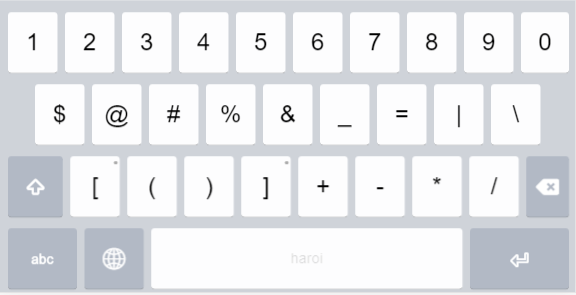
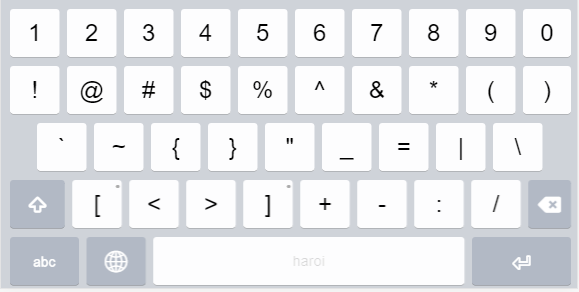
update help and numeric layout image

diff --git a/release/h/haroi/source/help/haroi.php b/release/h/haroi/source/help/haroi.php
@@ -1,0 +1,131 @@
+<?php 
+  $pagename = 'Haroi Keyboard Help';
+  $pagetitle = 'Haroi Keyboard Help';
+  // Header we will tidy up later  
+  require_once('header.php');
+
+
+?>
+
+
+<p style='margin: 16px 0 0 0'>
+Haroi Keyboard 1.0 is adapted from VNI.
+</p>
+<p>If square boxes are displayed instead of characters when using this keyboard (and in the keyboard layouts below), please read our <a href="/troubleshooting/#boxes">troubleshooting guide</a>.
+</p>
+<br/>
+
+<h1>Desktop Keyboard Layout</h1>
+<div id='osk' data-states='default shift'>
+</div>
+
+<h1>Mobile/Tablet Keyboard Layout</h1>
+<div id='osk-tablet' data-states='default shift numeric'>
+</div>
+
+<h1>Letters with Tone Marks and Diacritics</h1>
+
+<h2>Tone Marks</h2>
+
+<p>Press any vowel key and then any numeral 1-5 to get the vowel with a tone mark. </p>
+<p>For example:</p>
+<ul style="font-family:'Charist SIL';">
+<li>a + 1 = á </li> 
+<li>a + 2 = à </li>
+<li>a + 3 = ả </li>
+<li>a + 4 = ã </li>
+<li>a + 5 = ạ </li>
+</ul>
+<table width="300px" style="text-align:center; border:1px solid; font-family:'Charist SIL';">
+<thead  style="font-weight: bold; background-color: grey;"><tr><th></th><th>1</th><th>2</th><th>3</th><th>4</th><th>5</th></tr></thead><tbody>
+ <tr><td style="font-weight: bold; background-color: grey;">a</td><td>á</td><td>à</td><td>ả</td><td>ã</td><td>ạ</td></tr>
+ <tr><td style="font-weight: bold; background-color: grey;">e</td><td>é</td><td>è</td><td>ẻ</td><td>ẽ</td><td>ẹ</td></tr>
+ <tr><td style="font-weight: bold; background-color: grey;">i</td><td>í</td><td>ì</td><td>ỉ</td><td>ĩ</td><td>ị</td></tr>
+ <tr><td style="font-weight: bold; background-color: grey;">o</td><td>ó</td><td>ò</td><td>ỏ</td><td>õ</td><td>ọ</td></tr>
+ <tr><td style="font-weight: bold; background-color: grey;">u</td><td>ú</td><td>ù</td><td>ủ</td><td>ũ</td><td>ụ</td></tr>
+ <tr><td style="font-weight: bold; background-color: grey;">y</td><td>ý</td><td>ỳ</td><td>ỷ</td><td>ỹ</td><td>ỵ</td></tr>
+  
+</tbody></table>
+
+<h2>Vowel Qualities</h2>
+<p>Press any vowel key and then any numeral 6-8 to get the vowel with different vowel qualities. Some combinations are not possible.</p>
+<p>For example:</p>
+<ul style="font-family:'Charist SIL';">
+<li>a + 6 = â, e + 6 = ê, i + 6 = î, o + 6 = ô, u + 6 = û </li> 
+<li>o + 7 = ơ, u + 7 = ư </li>
+<li>a + 8 = ă, e + 8 = ĕ, i + 8 = ĭ, o + 8 = ŏ, u + 8 = ŭ (vowel shortening)</li>
+</ul>
+<table width="300px" style="text-align:center; border:1px solid; font-family:'Charist SIL';">
+<thead style="font-weight: bold; background-color: grey;"><tr><th></th><th>6</th><th>7</th><th>8</th></tr></thead><tbody>
+ <tr><td style="font-weight: bold; background-color: grey;">a</td><td>â</td><td>a7</td><td>ă</td></tr>
+ <tr><td style="font-weight: bold; background-color: grey;">e</td><td>ê</td><td>e7</td><td>ĕ</td></tr>
+ <tr><td style="font-weight: bold; background-color: grey;">i</td><td>î</td><td>i7</td><td>ĭ</td></tr>
+ <tr><td style="font-weight: bold; background-color: grey;">o</td><td>ô</td><td>ơ</td><td>ŏ</td></tr>
+ <tr><td style="font-weight: bold; background-color: grey;">u</td><td>û</td><td>ư</td><td>ŭ</td></tr>
+</tbody></table>
+
+<h2>Vowel Quality and Tone Marks</h2>
+<p>To get a vowel with both vowel quality and tone mark, press the vowel then the number for vowel quality (i.e. 6, 7 or 8) then the number for tone mark (i.e. 1, 2, ,3 ,4 or 5). Some combinations are not possible (i.e. i61 > î1).</p>
+<p>For example:</p>
+<ul style="font-family:'Charist SIL';">
+<li>a + 6 + 1 = ấ, a + 6 + 2 = ầ, a + 6 + 3= ẩ, a + 6 + 4= ẫ, a + 6 + 5 = ậ </li> 
+<li>e + 6 + 1 = ế, e + 6 + 2 = ề, e + 6 + 3= ể, e + 6 + 4= ễ, e + 6 + 5 = ệ </li> 
+<li>i + 6 + 1 = î1, i + 6 + 2 = î̀, i + 6 + 3= î3, i + 6 + 4= î4, i + 6 + 5 = î5 </li> 
+<li>o + 6 + 1 = ố, o + 6 + 2 = ồ, o + 6 + 3= ổ, o + 6 + 4= ỗ, o + 6 + 5 = ộ </li> 
+<li>u + 6 + 1 = û1, u + 6 + 2 = û̀, u + 6 + 3= û3, u + 6 + 4= û4, u + 6 + 5 = û5 </li> 
+<li>...etc, see the table below</li>
+</ul>
+<table width="300px" style="text-align:center; border:1px solid; font-family:'Charist SIL';">
+<thead style="font-weight: bold; background-color: grey;"><tr style="text-align:center;"><th></th><th>1</th><th>2</th><th>3</th><th>4</th><th>5</th></tr></thead><tbody>
+ <tr><td style="font-weight: bold; background-color: grey;">a6</td><td>ấ</td><td>ầ</td><td>ẩ</td><td>ẫ</td><td>ậ</td></tr>
+ <tr><td style="font-weight: bold; background-color: grey;">e6</td><td>ế</td><td>ề</td><td>ể</td><td>ễ</td><td>ệ</td></tr>
+ <tr><td style="font-weight: bold; background-color: grey;">i6</td><td>î1</td><td>î̀</td><td>î3</td><td>î4</td><td>î5</td></tr>
+ <tr><td style="font-weight: bold; background-color: grey;">o6</td><td>ố</td><td>ồ</td><td>ổ</td><td>ỗ</td><td>ộ</td></tr>
+ <tr><td style="font-weight: bold; background-color: grey;">u6</td><td>û1</td><td>û̀</td><td>û3</td><td>û4</td><td>û5</td></tr>
+ <tr><td style="font-weight: bold; background-color: grey;">o7</td><td>ớ</td><td>ờ</td><td>ở</td><td>ỡ</td><td>ợ</td></tr>
+ <tr><td style="font-weight: bold; background-color: grey;">u7</td><td>ứ</td><td>ừ</td><td>ử</td><td>ữ</td><td>ự</td></tr>
+ <tr><td style="font-weight: bold; background-color: grey;">a8</td><td>ắ</td><td>ằ</td><td>ẳ</td><td>ẵ</td><td>ặ</td></tr>
+ <tr><td style="font-weight: bold; background-color: grey;">e8</td><td>ĕ1</td><td>ĕ2</td><td>ĕ3</td><td>ĕ4</td><td>ĕ5</td></tr>
+ <tr><td style="font-weight: bold; background-color: grey;">i8</td><td>ĭ́</td><td>ĭ̀</td><td>ĭ̉</td><td>ĭ̃</td><td>ị̆</td></tr>
+ <tr><td style="font-weight: bold; background-color: grey;">o8</td><td>ŏ́</td><td>ŏ̀</td><td>ŏ̉</td><td>ŏ̃</td><td>ọ̆</td></tr>
+ <tr><td style="font-weight: bold; background-color: grey;">u8</td><td>ŭ́</td><td>ŭ̀</td><td>ŭ̉</td><td>ŭ̃</td><td>ụ̆</td></tr>
+</tbody></table>
+
+<h2>Other Characters</h2>
+<ul style="font-family:'Charist SIL';">
+<li>d + 9 = đ </li> 
+<li>b + 9 = ƀ </li>
+<li>n + 4 = ñ </li>
+<li>c + 8 = č </li>
+</ul>
+
+<h2>Additional Strokes for Vowels</h2>
+<p>with vowel quality and shortening</p>
+<ul style="font-family:'Charist SIL';">
+<li>a68	> â̆</li>
+<li>e68	> ê̆</li>
+<li>i68	> î̆</li>
+<li>o68	> ô̆</li>
+<li>u68	> û̆</li>
+<li>o78	> ơ̆</li>
+<li>u78	> ư̆</li>
+</ul>
+<p>with vowel shortening and tone</p>
+<table width="300px" style="text-align:center; border:1px solid; font-family:'Charist SIL';">
+<thead style="font-weight: bold; background-color: grey;"><tr class="tableizer-firstrow"><th></th><th>1</th><th>2</th><th>3</th><th>4</th><th>5</th></tr></thead><tbody>
+ <tr><td style="font-weight: bold; background-color: grey;">i8</td><td>ĭ́</td><td>ĭ̀</td><td>ĭ̉</td><td>ĭ̃</td><td>ị̆</td></tr>
+ <tr><td style="font-weight: bold; background-color: grey;">o8</td><td>ŏ́</td><td>ŏ̀</td><td>ŏ̉</td><td>ŏ̃</td><td>ọ̆</td></tr>
+ <tr><td style="font-weight: bold; background-color: grey;">u8</td><td>ŭ́</td><td>ŭ̀</td><td>ŭ̉</td><td>ŭ̃</td><td>ụ̆</td></tr>
+</tbody></table>
+<p>with vowel quality, shortening and tone</p>
+<table width="300px" style="text-align:center; border:1px solid; font-family:'Charist SIL';">
+<thead style="font-weight: bold; background-color: grey;"><tr class="tableizer-firstrow"><th></th><th>1</th><th>2</th><th>3</th><th>4</th><th>5</th></tr></thead><tbody>
+ <tr><td style="font-weight: bold; background-color: grey;">a68</td><td>â̆́</td><td>â̆̀</td><td>â̆̉</td><td>â̆̃</td><td>ậ̆</td></tr>
+ <tr><td style="font-weight: bold; background-color: grey;">e68</td><td>ê̆́</td><td>ê̆̀</td><td>ê̆̉</td><td>ê̆̃</td><td>ệ̆</td></tr>
+ <tr><td style="font-weight: bold; background-color: grey;">i68</td><td>î̆́</td><td>î̆̀</td><td>î̆̉</td><td>î̆̃</td><td>ị̂̆</td></tr>
+ <tr><td style="font-weight: bold; background-color: grey;">o68</td><td>ô̆́</td><td>ô̆̀</td><td>ô̆̉</td><td>ô̆̃</td><td>ộ̆</td></tr>
+ <tr><td style="font-weight: bold; background-color: grey;">o78</td><td>ơ̆́</td><td>ơ̆̀</td><td>ơ̆̉</td><td>ơ̆̃</td><td>ợ̆</td></tr>
+ <tr><td style="font-weight: bold; background-color: grey;">u68</td><td>û̆́</td><td>û̆̀</td><td>û̆̉</td><td>û̆̃</td><td>ụ̂̆</td></tr>
+ <tr><td style="font-weight: bold; background-color: grey;">u78</td><td>ư̆́</td><td>ư̆̀</td><td>ư̆̉</td><td>ư̆̃</td><td>ự̆</td></tr>
+</tbody></table>
+
